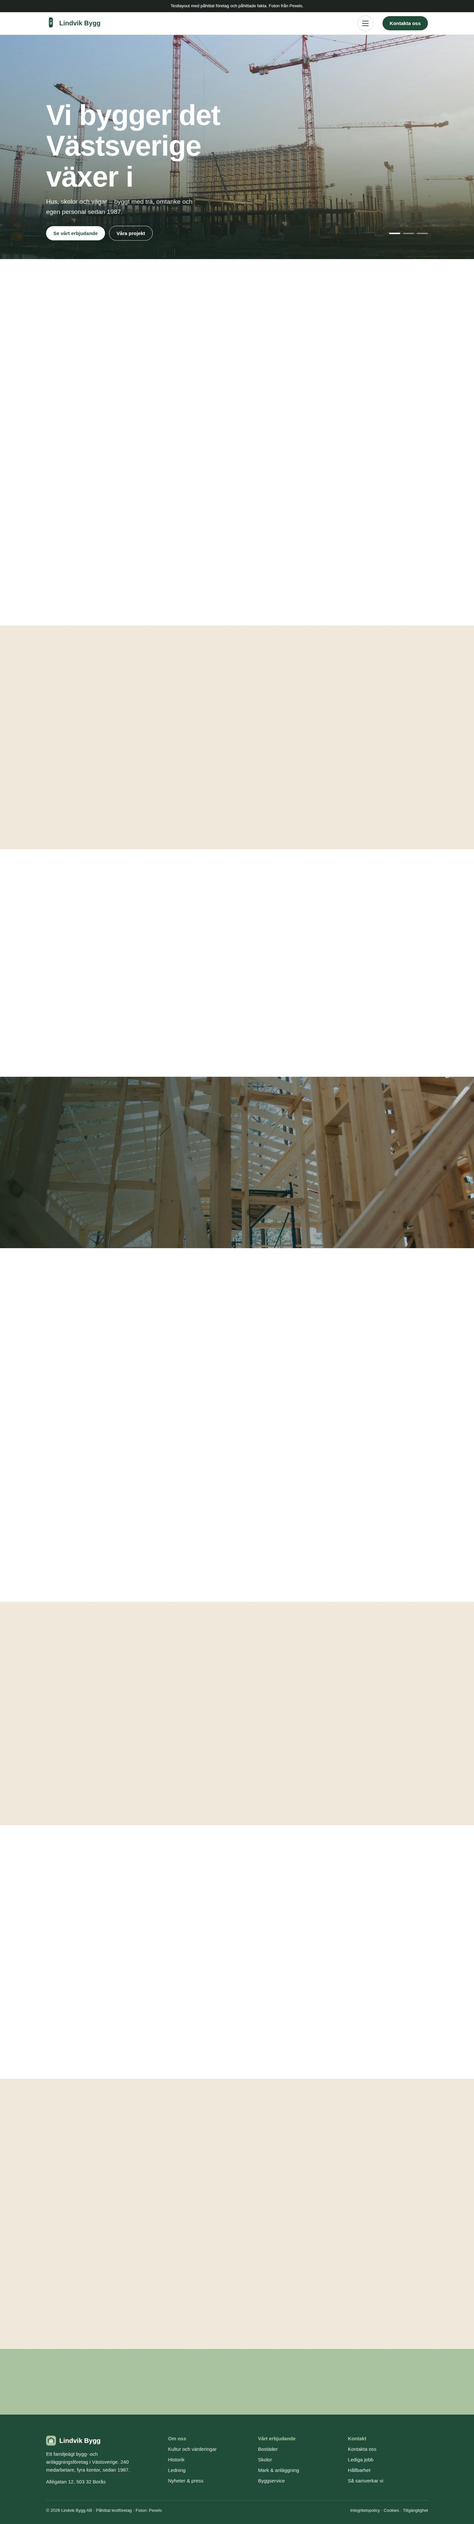
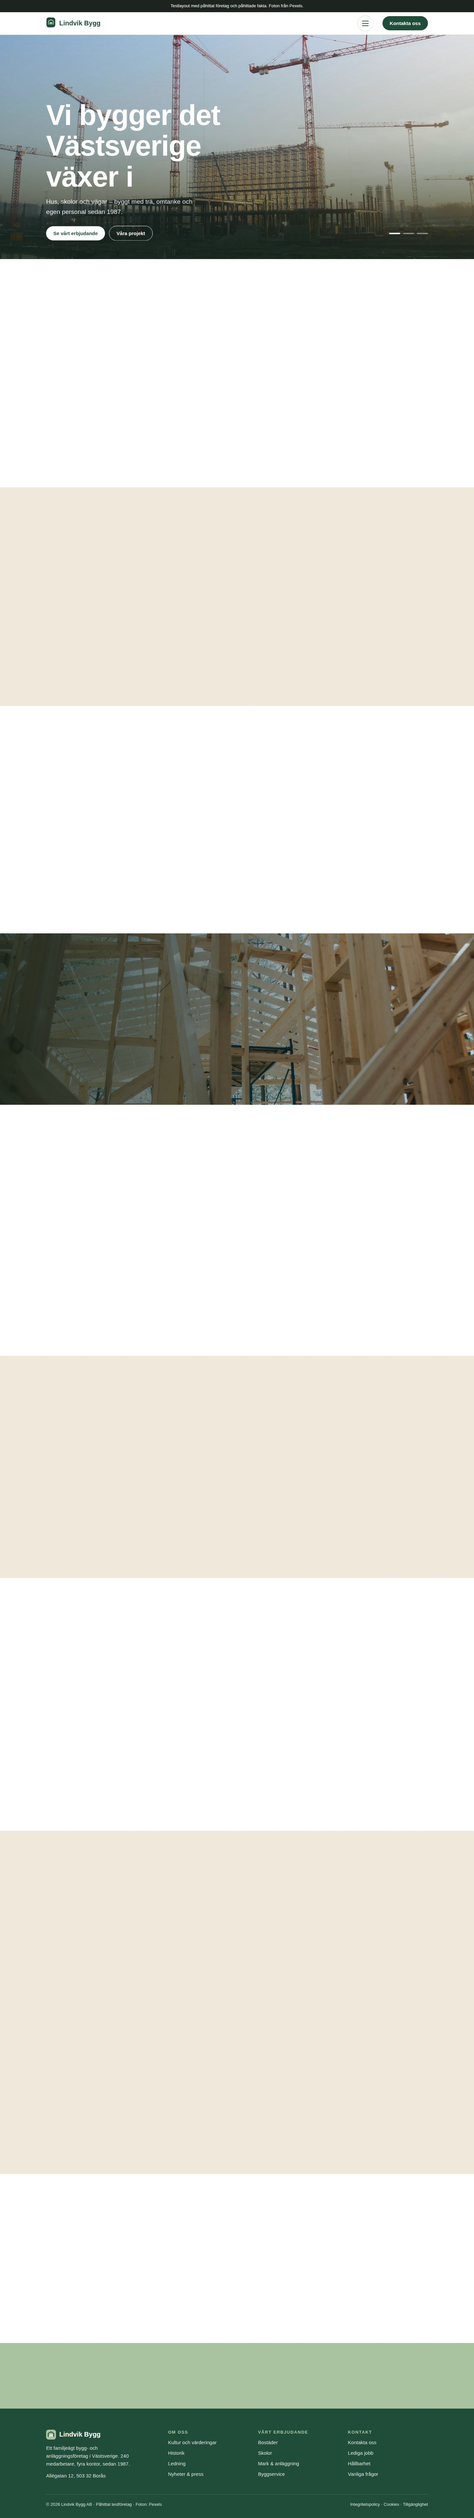
Återställer förra designen utan dörr-animation och 3D-hus
Tar tillbaka versionen före slop-ändringarna (ikonrutor, bolag, frågor,
etiketter) men utan dörrarna som öppnas och huset som byggs i 3D.
Projektkorten förblir platta. Behåller fixen som visar allt man
scrollat förbi.

Claude-Session: https://claude.ai/code/session_014cRMuR85oLsHNvvRSZFPjk

diff --git a/docs/index.html b/docs/index.html
@@ -11,7 +11,7 @@
 :root{
   --white:#ffffff;--beige:#efe8db;--sand:#e2d6c1;--green:#1f4d3a;--green-2:#2e6a51;--sage:#a9c3a0;--ink:#1d2420;--muted:#5d665f;--line:#dcd5c7;
   --display:"Bricolage Grotesque","Helvetica Neue",Arial,sans-serif;--body:"Source Sans 3","Helvetica Neue",Arial,sans-serif;
-  --max:1200px;--r:6px;color-scheme:light;
+  --max:1200px;--r:14px;color-scheme:light;
 }
 *{box-sizing:border-box}
 html{scroll-behavior:smooth}
@@ -25,13 +25,14 @@ h3{font-size:1.2rem;font-weight:700}
 p{margin:0}
 .in{max-width:var(--max);margin:0 auto;padding-inline:20px}
 section{padding-block:clamp(56px,8vw,104px)}
-.eyebrow{font:600 15px var(--body);color:var(--green-2)}
+.eyebrow{font:700 12.5px var(--body);letter-spacing:.14em;text-transform:uppercase;color:var(--green-2)}
 .lead{font-size:1.15rem;color:var(--muted);max-width:60ch}
 .btn{display:inline-flex;align-items:center;gap:8px;font:700 15px var(--body);padding:13px 22px;border-radius:999px;text-decoration:none;border:0;cursor:pointer}
 .btn-g{background:var(--green);color:var(--white)}
 .btn-w{background:var(--white);color:var(--green)}
 .btn-o{border:1.5px solid currentColor;background:transparent}
-.btn:focus-visible,a:focus-visible,button:focus-visible,.arrow{font-weight:700;color:var(--green);text-decoration:none;display:inline-flex;gap:6px}
+.btn:focus-visible,a:focus-visible,button:focus-visible,summary:focus-visible{outline:3px solid var(--sage);outline-offset:3px}
+.arrow{font-weight:700;color:var(--green);text-decoration:none;display:inline-flex;gap:6px}
 .arrow::after{content:"→";transition:transform .2s}
 .arrow:hover::after{transform:translateX(4px)}
 /* bildplatser (Pexels) */
@@ -67,6 +68,13 @@ header{position:sticky;top:env(safe-area-inset-top,0px);z-index:20;background:rg
 .dots button{width:34px;height:4px;border:0;border-radius:2px;background:rgb(255 255 255/.4);cursor:pointer;padding:0}
 .dots button[aria-current="true"]{background:var(--white)}
 /* tjänster – dörrar */
+.doors{display:grid;grid-template-columns:repeat(4,1fr);gap:12px;margin-top:34px}
+.door{background:var(--green);color:var(--white);border-radius:var(--r);padding:22px 18px;min-height:150px;display:flex;flex-direction:column;justify-content:space-between;text-decoration:none;transition:background .2s,transform .2s}
+.door:hover{background:var(--green-2)}
+.door svg{width:30px;height:30px;stroke:var(--sage)}
+.door b{font:700 1.08rem var(--display)}
+.door span{font-size:14px;color:rgb(255 255 255/.75)}
+@media (max-width:860px){.doors{grid-template-columns:1fr 1fr}}
 .center{text-align:center}.center .lead{margin:12px auto 0}
 /* om oss */
 .about{background:var(--beige)}
@@ -100,6 +108,15 @@ header{position:sticky;top:env(safe-area-inset-top,0px);z-index:20;background:rg
 .ocard div.txt{padding:30px;display:flex;flex-direction:column;gap:12px;justify-content:center}
 @media (max-width:760px){.ocard{grid-template-columns:1fr}.overlap{margin-top:-50px}}
 /* hållbarhet */
+.sust{display:grid;grid-template-columns:1fr 1.15fr;gap:14px}
+.sust .box{background:var(--green);color:var(--white);border-radius:var(--r);padding:clamp(28px,4vw,48px);display:flex;flex-direction:column;gap:16px;justify-content:center}
+.sust .box p{color:rgb(255 255 255/.85)}
+.mosaic{display:grid;grid-template-columns:1fr 1fr;grid-template-rows:1fr 1fr;gap:14px}
+.mosaic .t{border-radius:var(--r);padding:20px;display:flex;flex-direction:column;justify-content:flex-end;min-height:180px}
+.t.sand{background:var(--beige)}.t.sage{background:var(--sage)}
+.t b{font:800 2.1rem var(--display);color:var(--green);line-height:1}
+.t span{font-weight:600;font-size:15px}
+@media (max-width:860px){.sust{grid-template-columns:1fr}}
 /* nyheter */
 .newsgrid{display:grid;grid-template-columns:repeat(3,1fr);gap:26px 20px;margin-top:30px}
 .news{display:flex;flex-direction:column;gap:8px}
@@ -121,6 +138,15 @@ header{position:sticky;top:env(safe-area-inset-top,0px);z-index:20;background:rg
 .jobgrid .side .card2{background:var(--white);border-radius:var(--r);padding:24px;display:flex;flex-direction:column;gap:10px}
 @media (max-width:860px){.jobgrid{grid-template-columns:1fr}}
 /* bolag + genvägar */
+.cos{display:grid;grid-template-columns:repeat(6,1fr);gap:14px;margin-top:30px}
+.co{position:relative;grid-column:span 2;min-height:230px;border-radius:var(--r);overflow:hidden;color:var(--white);display:flex;align-items:flex-end}
+.co.wide{grid-column:span 3;min-height:300px}
+.co .ph{position:absolute;inset:0;border-radius:0}
+.co .ph::after{content:"";position:absolute;inset:0;background:linear-gradient(0deg,rgb(16 33 25/.82),transparent 65%)}
+.co .ph .tag{top:10px;bottom:auto}
+.co div.txt{position:relative;padding:18px;display:flex;flex-direction:column;gap:2px}
+.co small{font:700 11px var(--body);letter-spacing:.12em;text-transform:uppercase;color:var(--sage)}
+@media (max-width:760px){.cos{grid-template-columns:1fr}.co,.co.wide{grid-column:auto}}
 .shortcuts{display:grid;grid-template-columns:repeat(4,1fr);gap:14px;margin-top:40px}
 .sc{position:relative;min-height:150px;border-radius:var(--r);overflow:hidden;display:flex;align-items:center;justify-content:center;text-decoration:none;color:var(--white)}
 .sc .ph{position:absolute;inset:0;border-radius:0}
@@ -129,6 +155,14 @@ header{position:sticky;top:env(safe-area-inset-top,0px);z-index:20;background:rg
 .sc b{position:relative;font:800 1.35rem var(--display)}
 @media (max-width:760px){.shortcuts{grid-template-columns:1fr 1fr}}
 /* faq */
+.faq{display:grid;grid-template-columns:1fr 1.4fr;gap:40px}
+details{border-bottom:1px solid var(--line)}
+summary{list-style:none;cursor:pointer;display:flex;justify-content:space-between;gap:16px;padding:18px 0;font:700 1.05rem var(--display)}
+summary::-webkit-details-marker{display:none}
+summary::after{content:"+";color:var(--green);font-size:1.5rem;line-height:1}
+details[open] summary::after{content:"−"}
+details p{padding-bottom:18px;color:var(--muted);max-width:62ch}
+@media (max-width:860px){.faq{grid-template-columns:1fr}}
 /* kundtjänst */
 .cs{background:var(--sage);padding-block:46px}
 .cs .in{display:grid;grid-template-columns:1fr auto;gap:30px;align-items:center}
@@ -141,7 +175,7 @@ header{position:sticky;top:env(safe-area-inset-top,0px);z-index:20;background:rg
 /* footer */
 footer{background:var(--green);color:rgb(255 255 255/.85);padding-block:64px 30px;font-size:15px}
 .fgrid{display:grid;grid-template-columns:1.4fr repeat(3,1fr);gap:30px}
-footer h4{font:700 15px var(--body);color:var(--sage);margin:0 0 12px}
+footer h4{font:700 13px var(--body);letter-spacing:.12em;text-transform:uppercase;color:var(--sage);margin:0 0 12px}
 footer ul{list-style:none;margin:0;padding:0;display:grid;gap:8px}
 footer a{text-decoration:none}
 footer a:hover{color:var(--white);text-decoration:underline}
@@ -151,38 +185,6 @@ footer .logo{color:var(--white)}
 .demo{background:var(--ink);color:var(--white);text-align:center;font-size:13px;padding:8px 16px}
 .demo a{color:var(--sage)}
 html,body{overflow-x:clip}
-/* tjänster som lista med foton */
-.services{display:grid;grid-template-columns:minmax(0,.85fr) minmax(0,1.3fr);gap:clamp(28px,5vw,72px);align-items:start}
-.svc-intro{position:sticky;top:110px}
-.svc-list{list-style:none;margin:0;padding:0;border-top:1px solid var(--line)}
-.svc{display:grid;grid-template-columns:132px minmax(0,1fr) auto;gap:20px;align-items:center;padding:16px 0;border-bottom:1px solid var(--line);text-decoration:none}
-.svc img{width:132px;height:96px;object-fit:cover;border-radius:4px;display:block}
-.svc-t{display:flex;flex-direction:column;gap:4px;min-width:0}
-.svc-t b{font:700 1.25rem var(--display);color:var(--ink)}
-.svc-t span{font-size:15px;color:var(--muted);line-height:1.5}
-.svc-a{color:var(--green);font-size:1.3rem;transition:transform .25s}
-.svc:hover .svc-a,.svc:focus-visible .svc-a{transform:translateX(5px)}
-.svc:hover b{color:var(--green)}
-@media (max-width:860px){.services{grid-template-columns:1fr}.svc-intro{position:static}}
-@media (max-width:520px){.svc{grid-template-columns:88px minmax(0,1fr);gap:14px}.svc img{width:88px;height:72px}.svc-a{display:none}}
-/* hållbarhet */
-.sust{display:grid;grid-template-columns:minmax(0,1fr) minmax(0,1fr);gap:clamp(28px,5vw,64px);align-items:center}
-.sust-img{position:relative;aspect-ratio:4/5;overflow:hidden;border-radius:var(--r)}
-.sust-img .photo{position:absolute;inset:0;width:100%;height:100%;object-fit:cover}
-.figs{display:flex;gap:32px;flex-wrap:wrap;margin:26px 0;padding:20px 0;border-block:1px solid var(--line)}
-.figs .t{display:flex;flex-direction:column;gap:4px;max-width:200px}
-.figs dt,.figs dd{margin:0}
-.figs b{display:inline-block;font:800 2.6rem/1 var(--display);color:var(--green);transform-origin:50% 50% -20px}
-.figs b.flip{animation:flipnum .9s cubic-bezier(.2,.8,.2,1)}
-.figs dd{font-size:15px;color:var(--muted)}
-@media (max-width:860px){.sust{grid-template-columns:1fr}.sust-img{aspect-ratio:16/10}}
-/* våra bolag: enkel lista */
-.colist{list-style:none;margin:28px 0 0;padding:0;border-top:1px solid var(--sand)}
-.colist a{display:grid;grid-template-columns:minmax(0,220px) minmax(0,1fr) auto;gap:8px 24px;align-items:baseline;padding:18px 0;border-bottom:1px solid var(--sand);text-decoration:none}
-.colist b{font:700 1.15rem var(--display);color:var(--green)}
-.colist span{color:var(--muted)}
-.colist em{font-style:normal;font-weight:700;color:var(--green);white-space:nowrap}
-@media (max-width:640px){.colist a{grid-template-columns:1fr}}
 /* ---------- hamburgermeny ---------- */
 .burger{margin-left:auto;width:48px;height:48px;border-radius:50%;border:1.5px solid var(--line);background:var(--white);display:grid;place-content:center;gap:5px;cursor:pointer;position:relative;z-index:31;transition:background .3s,border-color .3s}
 .burger span{display:block;width:20px;height:2px;border-radius:2px;background:var(--green);transition:transform .45s cubic-bezier(.7,0,.2,1),opacity .3s,background .3s}
@@ -218,20 +220,24 @@ body.menu-open{overflow:hidden}
 .hero p{animation:rise 1.1s .15s cubic-bezier(.2,.8,.2,1) both}
 .hero .row{animation:rise 1.1s .3s cubic-bezier(.2,.8,.2,1) both}
 @keyframes rise{from{transform:perspective(800px) rotateX(35deg) translateY(40px)}to{transform:none}}
-/* ---------- dörrar som öppnas ---------- */
 /* ---------- lutande kort ---------- */
 [data-tilt]{transform-style:preserve-3d;transition:transform .5s cubic-bezier(.2,.8,.2,1);will-change:transform}
 [data-tilt].tilting{transition:transform .08s linear}
 [data-tilt] .ph{position:relative}
 [data-tilt] .ph::after{content:"";position:absolute;inset:0;pointer-events:none;background:radial-gradient(circle at var(--mx,50%) var(--my,50%),rgb(255 255 255/.35),transparent 55%);opacity:0;transition:opacity .3s}
 [data-tilt].tilting .ph::after{opacity:1}
+.co[data-tilt] .ph::after{background:linear-gradient(0deg,rgb(16 33 25/.82),transparent 65%)}
 /* ---------- delar som fälls upp ---------- */
 .pre{opacity:0;transform:perspective(1000px) rotateX(18deg) translateY(60px);transform-origin:50% 100%}
 .rv{transition:opacity 1s cubic-bezier(.2,.8,.2,1),transform 1.1s cubic-bezier(.2,.8,.2,1)}
 /* ---------- siffror som vänds ---------- */
+.t b{display:inline-block;transform-origin:50% 50% -20px}
+.t b.flip{animation:flipnum .9s cubic-bezier(.2,.8,.2,1)}
 @keyframes flipnum{from{transform:perspective(400px) rotateX(-100deg);opacity:0}to{transform:none;opacity:1}}
 @media (prefers-reduced-motion:reduce){
-  .logo .cube,.slide.on .photo,.hero h1,.hero p,.hero .row,  .overlay,.overlay li,  .pre{opacity:1;transform:none}
+  .logo .cube,.slide.on .photo,.hero h1,.hero p,.hero .row,.t b.flip{animation:none}
+  .overlay,.overlay li,[data-tilt],.rv{transition:none}
+  .pre{opacity:1;transform:none}
 }
 </style>
 </head>
@@ -271,24 +277,22 @@ body.menu-open{overflow:hidden}
     </div>
   </section>
 
-  <!-- Tjänster: lista med riktiga foton -->
+  <!-- Tjänster: Granitor (dörrar) + GBJ/Brixly/Contractor/ByggPartner -->
   <section id="tjanster">
-    <div class="in services">
-      <div class="svc-intro">
-        <p class="eyebrow">Vårt erbjudande</p>
-        <h2 style="margin-top:6px">Det här bygger vi</h2>
-        <p class="lead" style="margin-top:14px">Från första skissen till nyckelöverlämning, och servicen efteråt. Sju områden, en kontakt.</p>
-        <a class="btn btn-g" style="margin-top:22px" href="#kontakt">Berätta om ditt projekt</a>
-      </div>
-      <ul class="svc-list">
-        <li><a class="svc" href="#projekt"><img src="img/foto-06.jpg" alt="" loading="lazy"><span class="svc-t"><b>Bostäder</b><span>Villor, radhus och flerbostadshus. Just nu bygger vi 212 lägenheter i Sjuhärad.</span></span><span class="svc-a" aria-hidden="true">→</span></a></li>
-        <li><a class="svc" href="#projekt"><img src="img/foto-05.jpg" alt="" loading="lazy"><span class="svc-t"><b>Skolor och förskolor</b><span>Lugna, ljusa miljöer i trä. Vi har byggt elva förskolor sedan 2018.</span></span><span class="svc-a" aria-hidden="true">→</span></a></li>
-        <li><a class="svc" href="#projekt"><img src="img/foto-20.jpg" alt="" loading="lazy"><span class="svc-t"><b>Mark och anläggning</b><span>Grund, vatten, avlopp och vägar. Egna maskiner och egna förare.</span></span><span class="svc-a" aria-hidden="true">→</span></a></li>
-        <li><a class="svc" href="#erbjudande"><img src="img/foto-09.jpg" alt="" loading="lazy"><span class="svc-t"><b>Träbyggnation</b><span>Stommar i KL-trä och limträ från vår egen fabrik i Viskafors. Massivt trä förkolnar på ytan och skyddar kärnan, så husen klarar Boverkets brandkrav.</span></span><span class="svc-a" aria-hidden="true">→</span></a></li>
-        <li><a class="svc" href="#kontakt"><img src="img/foto-22.jpg" alt="" loading="lazy"><span class="svc-t"><b>Byggservice</b><span>Vi hjälper även privatpersoner med badrum, tillbyggnader och mindre reparationer.</span></span><span class="svc-a" aria-hidden="true">→</span></a></li>
-        <li><a class="svc" href="#kontakt"><img src="img/foto-17.jpg" alt="" loading="lazy"><span class="svc-t"><b>Renovering</b><span>Om- och tillbyggnad av skolor, kontor och bostadshus medan folk bor kvar.</span></span><span class="svc-a" aria-hidden="true">→</span></a></li>
-        <li><a class="svc" href="#projekt"><img src="img/foto-18.jpg" alt="" loading="lazy"><span class="svc-t"><b>Projektutveckling</b><span>Från tomt till färdigt kvarter, tillsammans med kommunen och framtida grannar.</span></span><span class="svc-a" aria-hidden="true">→</span></a></li>
-      </ul>
+    <div class="in center">
+      <p class="eyebrow">Vårt erbjudande</p>
+      <h2 style="margin-top:8px">Åtta dörrar. Vilken vill du öppna?</h2>
+      <p class="lead">Från första skissen till nyckelöverlämning – och servicen efteråt. Allt under ett tak.</p>
+    </div>
+    <div class="in doors">
+      <a class="door" href="#projekt"><svg viewBox="0 0 24 24" fill="none" stroke-width="1.8"><path d="M3 21h18M5 21V9l7-5 7 5v12M10 21v-6h4v6"/></svg><div><b>Bostäder</b><br><span>Villor, radhus, flerbostadshus</span></div></a>
+      <a class="door" href="#projekt"><svg viewBox="0 0 24 24" fill="none" stroke-width="1.8"><path d="M3 21h18M4 21V7h16v14M8 11h2M14 11h2M8 15h2M14 15h2"/></svg><div><b>Skolor &amp; förskolor</b><br><span>Trygga miljöer för barn</span></div></a>
+      <a class="door" href="#projekt"><svg viewBox="0 0 24 24" fill="none" stroke-width="1.8"><path d="M2 18h20M5 18l3-8h8l3 8M9 10V6h6v4"/></svg><div><b>Mark &amp; anläggning</b><br><span>Grund, vatten och avlopp</span></div></a>
+      <a class="door" href="#erbjudande"><svg viewBox="0 0 24 24" fill="none" stroke-width="1.8"><path d="M4 20 20 4M7 4h13v13"/></svg><div><b>Träbyggnation</b><br><span>KL-trä och limträ</span></div></a>
+      <a class="door" href="#kontakt"><svg viewBox="0 0 24 24" fill="none" stroke-width="1.8"><path d="M14 7a4 4 0 1 0-5 5l-6 6 2 2 6-6a4 4 0 0 0 3-7z"/></svg><div><b>Byggservice</b><br><span>Snabb hjälp med det lilla</span></div></a>
+      <a class="door" href="#kontakt"><svg viewBox="0 0 24 24" fill="none" stroke-width="1.8"><path d="M4 20V10l8-6 8 6v10H4zM9 20v-5h6v5"/></svg><div><b>Renovering</b><br><span>Om- och tillbyggnad</span></div></a>
+      <a class="door" href="#projekt"><svg viewBox="0 0 24 24" fill="none" stroke-width="1.8"><path d="M3 20h18M6 20V4h12v16M9 8h6M9 12h6"/></svg><div><b>Projektutveckling</b><br><span>Från tomt till färdigt kvarter</span></div></a>
+      <a class="door" href="#jobb"><svg viewBox="0 0 24 24" fill="none" stroke-width="1.8"><circle cx="12" cy="8" r="4"/><path d="M4 21c1-4 4-6 8-6s7 2 8 6"/></svg><div><b>Lediga jobb</b><br><span>14 tjänster just nu</span></div></a>
     </div>
   </section>
 
@@ -298,7 +302,7 @@ body.menu-open{overflow:hidden}
       <div>
         <p class="eyebrow">Om Lindvik Bygg</p>
         <h2 style="margin-top:8px">Ett lokalt byggföretag med 240 egna medarbetare</h2>
-        <p class="lead" style="margin-top:16px">Vi är ett familjeägt bygg- och anläggningsföretag från Borås. Vi tror på samverkan. När beställare, arkitekt och hantverkare sitter vid samma bord från början, med öppna kostnader, blir husen bättre, billigare och klara i tid. Ett hus med 40 lägenheter tar oss ungefär 14 månader.</p>
+        <p class="lead" style="margin-top:16px">Vi är ett familjeägt bygg- och anläggningsföretag från Borås. Vi tror på samverkan: när beställare, arkitekt och hantverkare sitter vid samma bord från början blir husen bättre, billigare och klara i tid.</p>
         <div class="cols3">
           <div><h3>Tjänster och projekt</h3><p>Bostäder, skolor och mark i hela Sjuhärad och Göteborgsregionen.</p><a class="arrow" href="#tjanster">Våra tjänster</a></div>
           <div><h3>Detta är Lindvik</h3><p>Grundat 1987 i ett garage i Viskafors. Idag fyra kontor.</p><a class="arrow" href="#om">Vår historia</a></div>
@@ -348,16 +352,17 @@ body.menu-open{overflow:hidden}
   <!-- Hållbarhet: Contractor -->
   <section id="hallbarhet">
     <div class="in sust">
-      <div class="sust-img"><img class="photo" src="img/foto-11.jpg" alt="Granskog vid en sjö" loading="lazy"></div>
-      <div class="sust-txt">
-        <p class="eyebrow">Hållbarhetsredovisning 2026</p>
-        <h2 style="margin-top:6px">Vi mäter det vi bygger</h2>
-        <p class="lead" style="margin-top:14px">Varje år redovisar vi hur vi påverkar miljön, människorna och ekonomin omkring oss. I år nådde vi målet för återvunnet material ett år tidigare än planerat.</p>
-        <dl class="figs">
-          <div class="t"><dt><b>−38 %</b></dt><dd>koldioxid per kvadratmeter sedan 2020</dd></div>
-          <div class="t"><dt><b>92 %</b></dt><dd>av byggavfallet sorteras</dd></div>
-        </dl>
-        <a class="btn btn-g" href="#hallbarhet">Läs redovisningen</a>
+      <div class="box">
+        <p class="eyebrow" style="color:var(--sage)">Hållbarhetsredovisning 2026</p>
+        <h2>Vi mäter det vi bygger</h2>
+        <p>Varje år redovisar vi hur vi påverkar miljön, människorna och ekonomin omkring oss. I år nådde vi målet för återvunnet material ett år tidigare än planerat.</p>
+        <div><a class="btn btn-w" href="#hallbarhet">Läs redovisningen</a></div>
+      </div>
+      <div class="mosaic">
+        <div class="ph forest" style="min-height:180px"><img class="photo" src="img/foto-11.jpg" alt="" style="object-position:50% 50%"></div>
+        <div class="t sand"><b>−38 %</b><span>koldioxid per m² sedan 2020</span></div>
+        <div class="t sage"><b>92 %</b><span>av byggavfallet sorteras</span></div>
+        <div class="ph people" style="min-height:180px"><img class="photo" src="img/foto-12.jpg" alt="" style="object-position:50% 30%"></div>
       </div>
     </div>
   </section>
@@ -393,18 +398,32 @@ body.menu-open{overflow:hidden}
   <section style="background:var(--beige)">
     <div class="in">
       <div class="center"><p class="eyebrow">Koncernen</p><h2 style="margin-top:8px">Våra bolag</h2></div>
-      <ul class="colist">
-        <li><a href="#kontakt"><b>Lindvik Bostad</b><span>Säljer och hyr ut bostäderna vi bygger.</span><em>Sök bostad →</em></a></li>
-        <li><a href="#kontakt"><b>Lindvik Fastighet</b><span>Äger och förvaltar 40 000 kvadratmeter lokaler.</span><em>Sök lokal →</em></a></li>
-        <li><a href="#kontakt"><b>Lindvik Mark</b><span>Mark, väg och ledningar i hela Västsverige.</span><em>Läs mer →</em></a></li>
-        <li><a href="#kontakt"><b>Lindvik Trä</b><span>Husfabriken i Viskafors som tillverkar våra stommar.</span><em>Läs mer →</em></a></li>
-        <li><a href="#kontakt"><b>Lindvik Service</b><span>Byggservice och underhåll, även för privatpersoner.</span><em>Boka service →</em></a></li>
-      </ul>
+      <div class="cos">
+        <div class="co wide" data-tilt><div class="ph house"><img class="photo" src="img/foto-18.jpg" alt="" style="object-position:50% 50%"></div><div class="txt"><small>Lindvik Bostad</small><h3>Hem för framtidens Sjuhärad</h3><span class="arrow" style="color:#fff">Sök bostad</span></div></div>
+        <div class="co wide" data-tilt><div class="ph site"><img class="photo" src="img/foto-19.jpg" alt="" style="object-position:50% 50%"></div><div class="txt"><small>Lindvik Fastighet</small><h3>Lokaler som inspirerar</h3><span class="arrow" style="color:#fff">Sök lokal</span></div></div>
+        <div class="co" data-tilt><div class="ph road"><img class="photo" src="img/foto-20.jpg" alt="" style="object-position:50% 50%"></div><div class="txt"><small>Lindvik Mark</small><h3>Mark &amp; anläggning</h3></div></div>
+        <div class="co" data-tilt><div class="ph wood"><img class="photo" src="img/foto-21.jpg" alt="" style="object-position:50% 50%"></div><div class="txt"><small>Lindvik Trä</small><h3>Egen husfabrik</h3></div></div>
+        <div class="co" data-tilt><div class="ph night"><img class="photo" src="img/foto-22.jpg" alt="" style="object-position:50% 50%"></div><div class="txt"><small>Lindvik Service</small><h3>Byggservice</h3></div></div>
+      </div>
       <div class="shortcuts" aria-label="Genvägar">
         <a class="sc" href="#om"><div class="ph"><img class="photo" src="img/foto-04.jpg" alt="" style="object-position:50% 50%"></div><b>Kultur</b></a>
         <a class="sc" href="#kontakt"><div class="ph"><img class="photo" src="img/foto-23.jpg" alt="" style="object-position:50% 50%"></div><b>Regioner</b></a>
         <a class="sc" href="#hallbarhet"><div class="ph"><img class="photo" src="img/foto-11.jpg" alt="" style="object-position:50% 50%"></div><b>Hållbarhet</b></a>
         <a class="sc" href="#projekt"><div class="ph"><img class="photo" src="img/foto-24.jpg" alt="" style="object-position:50% 50%"></div><b>Byggnader</b></a>
+      </div>
+    </div>
+  </section>
+
+  <!-- Vanliga frågor: GBJ -->
+  <section id="faq">
+    <div class="in faq">
+      <div><p class="eyebrow">Vanliga frågor</p><h2 style="margin-top:8px">Undrar du något?</h2><p class="lead" style="margin-top:14px">Här är svaren på det vi får frågor om oftast. Hittar du inte svaret? Ring oss.</p><a class="arrow" style="margin-top:18px" href="#kontakt">Fler frågor och svar</a></div>
+      <div>
+        <details><summary>Hur lång tid tar det att bygga ett flerbostadshus i trä?</summary><p>Ett hus med 40 lägenheter tar ungefär 14 månader från byggstart till inflyttning. Stommen monteras på sex veckor.</p></details>
+        <details><summary>Bygger ni åt privatpersoner?</summary><p>Ja, via Lindvik Service gör vi om- och tillbyggnader, badrum och mindre renoveringar i hela Sjuhärad.</p></details>
+        <details><summary>Vad är samverkan, eller partnering?</summary><p>Beställare, arkitekt och byggare jobbar som ett lag från dag ett, med öppna kostnader och gemensamma mål.</p></details>
+        <details><summary>Är trä lika brandsäkert som betong?</summary><p>Ja, när det är rätt dimensionerat. Massivt trä förkolnar på ytan och skyddar då kärnan, och alla våra hus uppfyller Boverkets brandkrav.</p></details>
+        <details><summary>Hur söker jag jobb hos er?</summary><p>Alla lediga tjänster finns under Jobba hos oss. Du kan också skicka en spontanansökan.</p></details>
       </div>
     </div>
   </section>
@@ -425,7 +444,7 @@ body.menu-open{overflow:hidden}
       <div><a class="logo" href="#top"><svg viewBox="0 0 32 32" aria-hidden="true"><rect width="32" height="32" rx="8" fill="#a9c3a0"/><path d="M7 23V12l9-5 9 5v11" fill="none" stroke="#1f4d3a" stroke-width="2.6" stroke-linejoin="round"/><path d="M13 23v-6h6v6" fill="none" stroke="#fff" stroke-width="2.6"/></svg>Lindvik Bygg</a><p style="margin-top:14px;max-width:34ch">Ett familjeägt bygg- och anläggningsföretag i Västsverige. 240 medarbetare, fyra kontor, sedan 1987.</p><p style="margin-top:12px">Allégatan 12, 503 32 Borås</p></div>
       <div><h4>Om oss</h4><ul><li><a href="#om">Kultur och värderingar</a></li><li><a href="#om">Historik</a></li><li><a href="#om">Ledning</a></li><li><a href="#nyheter">Nyheter &amp; press</a></li></ul></div>
       <div><h4>Vårt erbjudande</h4><ul><li><a href="#tjanster">Bostäder</a></li><li><a href="#tjanster">Skolor</a></li><li><a href="#tjanster">Mark &amp; anläggning</a></li><li><a href="#tjanster">Byggservice</a></li></ul></div>
-      <div><h4>Kontakt</h4><ul><li><a href="#kontakt">Kontakta oss</a></li><li><a href="#jobb">Lediga jobb</a></li><li><a href="#hallbarhet">Hållbarhet</a></li><li><a href="#om">Så samverkar vi</a></li></ul></div>
+      <div><h4>Kontakt</h4><ul><li><a href="#kontakt">Kontakta oss</a></li><li><a href="#jobb">Lediga jobb</a></li><li><a href="#hallbarhet">Hållbarhet</a></li><li><a href="#faq">Vanliga frågor</a></li></ul></div>
     </div>
     <div class="fbottom"><span>© 2026 Lindvik Bygg AB · Påhittat testföretag · Foton: Pexels</span><span>Integritetspolicy · Cookies · Tillgänglighet</span></div>
   </div>
@@ -485,18 +504,17 @@ if (!reduce) document.querySelectorAll("[data-tilt]").forEach((el) => {
 
 /* ---------- delar fälls upp när de syns, dörrar glipar, siffror vänds ---------- */
 if (!reduce && "IntersectionObserver" in window) {
-  const targets = [...document.querySelectorAll("main > section:not(.hero):not(.build) > .in, .overlap .ocard, .newsgrid > *, .svc-list > li")];
+  const targets = [...document.querySelectorAll("main > section:not(.hero):not(.build) > .in, .overlap .ocard, .newsgrid > *, .cos > *")];
   const below = targets.filter((el) => el.getBoundingClientRect().top > innerHeight * 0.9);
   below.forEach((el) => el.classList.add("pre", "rv"));
   const io = new IntersectionObserver((es) => es.forEach((e) => {
     if (!e.isIntersecting) return;
     const el = e.target, i = [...(el.parentElement?.children || [])].indexOf(el);
-    el.style.transitionDelay = el.matches(".newsgrid > *, .svc-list > li") ? Math.min(i, 7) * 70 + "ms" : "0ms";
+    el.style.transitionDelay = el.matches(".newsgrid > *, .cos > *") ? Math.min(i, 7) * 70 + "ms" : "0ms";
     el.classList.remove("pre"); io.unobserve(el);
     setTimeout(() => (el.style.transitionDelay = ""), 1400);
   }), { threshold: 0.12, rootMargin: "0px 0px -6% 0px" });
   below.forEach((el) => io.observe(el));
-  // Säkerhetsnät: allt som scrollats förbi visas alltid, även vid snabba hopp.
   let sweep = 0;
   const reveal = () => { sweep = 0; document.querySelectorAll(".pre").forEach((el) => { if (el.getBoundingClientRect().top < innerHeight) { el.classList.remove("pre"); io.unobserve(el); } }); };
   addEventListener("scroll", () => { if (!sweep) sweep = setTimeout(reveal, 250); }, { passive: true });

diff --git a/README.md b/README.md
@@ -26,14 +26,15 @@ All fakta är påhittad. Fotona kommer från [Pexels](https://www.pexels.com).
 | Del | Inspirerad av |
 | --- | --- |
 | Toppen med bildspel | Svevia, Granitor |
-| Tjänster som lista med foton | GBJ Bygg, Brixly, Granitor, Contractor, ByggPartner |
+| Åtta "dörrar" (tjänster) | Granitor, GBJ Bygg, Brixly, Contractor, ByggPartner |
 | Om oss med tre spalter | Brixly, BDX, ByggPartner |
 | Projekt att svepa | GBJ Bygg, Brixly, Granitor, Contractor |
 | Helhetserbjudande med överlappande kort | Svevia, GBJ Bygg |
-| Hållbarhet med foto och nyckeltal | Contractor |
+| Hållbarhet med mosaik | Contractor |
 | Nyheter | Svevia, Myresjöhus, BDX |
 | Jobba hos oss | Svevia, Contractor |
-| Våra bolag (lista) och genvägar | Granitor, ByggPartner |
+| Våra bolag och genvägar | Granitor, ByggPartner |
+| Vanliga frågor | GBJ Bygg |
 | Kundtjänst | Svevia |
 | Botten | Granitor, ByggPartner |
 
